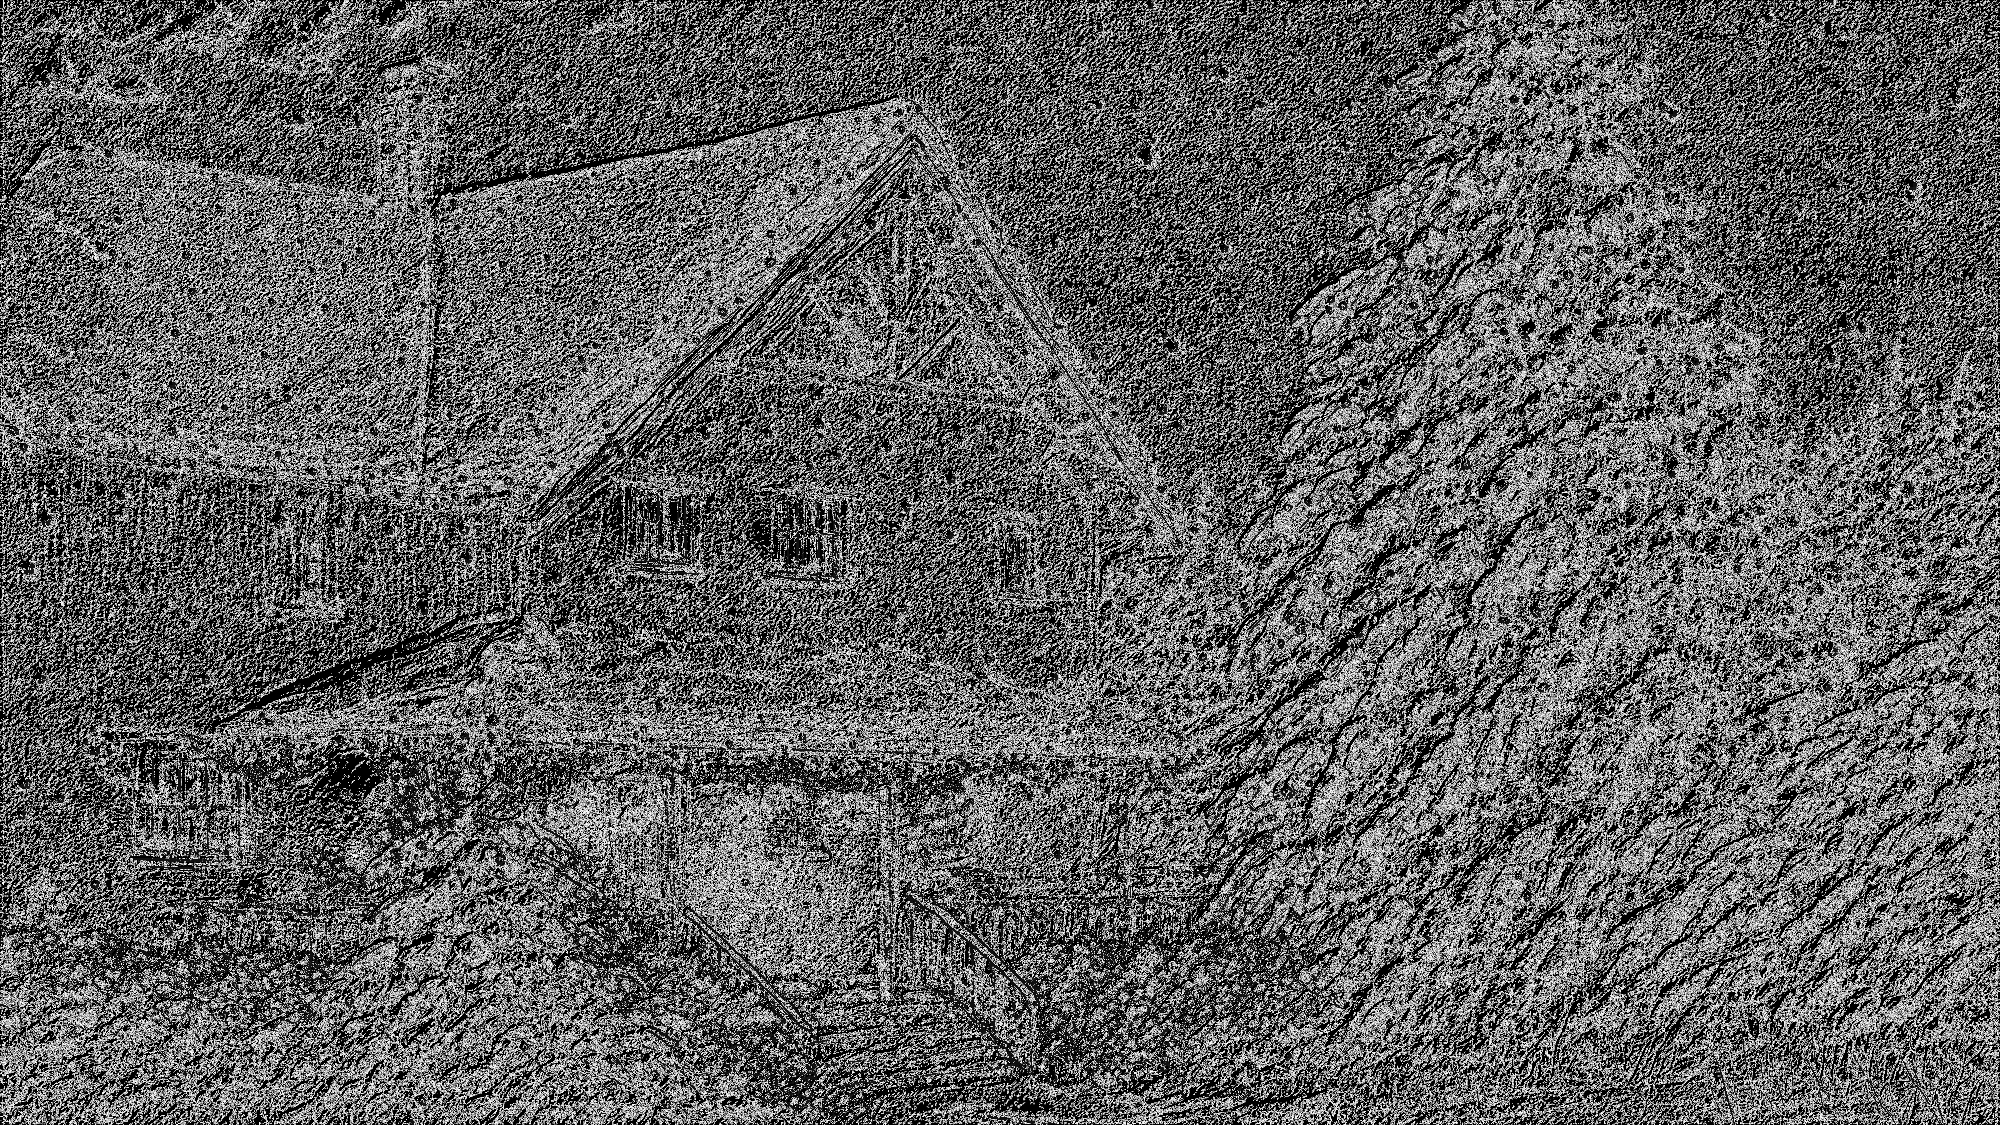
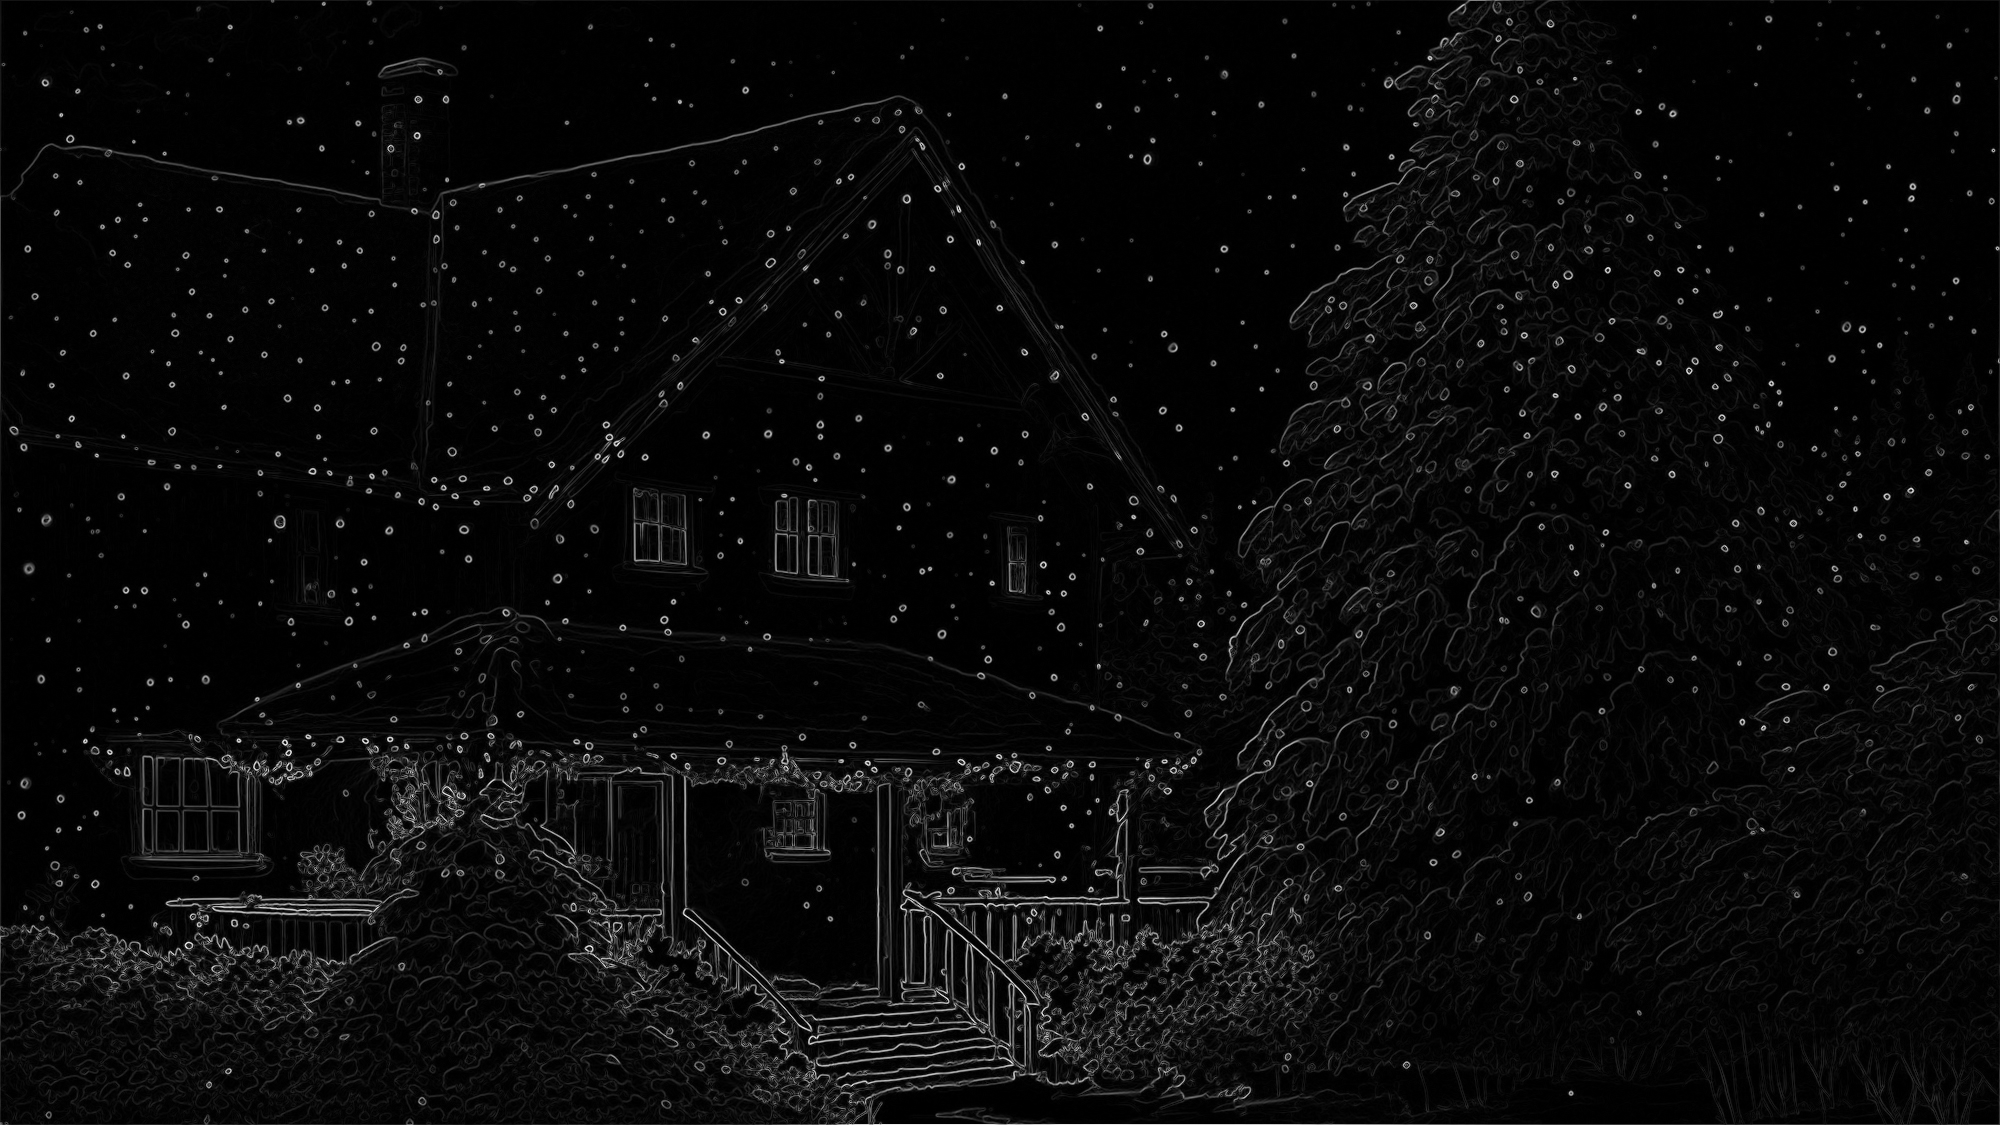
lab4

diff --git a/lab4/main.py b/lab4/main.py
@@ -1,8 +1,69 @@
-import cv2
-import numpy as np
-import os
-from matplotlib import pyplot as plt
+# import cv2
+# import numpy as np
+# import os
+# from matplotlib import pyplot as plt
+#
+# G_x = np.array([[3, 10, 3],
+#                 [0, 0, 0],
+#                 [-3, -10, -3]], dtype=np.float32)
+#
+# G_y = np.array([[3, 0, -3],
+#                 [10, 0, -10],
+#                 [3, 0, -3]], dtype=np.float32)
+#
+# input_folder = 'pictures_src'
+# output_folder = 'pictures_results'
+#
+# if not os.path.exists(output_folder):
+#     os.makedirs(output_folder)
+#
+# image_files = [f for f in os.listdir(input_folder) if f.endswith('.png')]
+#
+# for image_file in image_files:
+#     image_path = os.path.join(input_folder, image_file)
+#
+#     image = cv2.imread(image_path)
+#
+#     if image is None:
+#         print(f"Ошибка: Не удалось загрузить изображение {image_file}. Пропускаем.")
+#         continue
+#
+#     gray_image = cv2.cvtColor(image, cv2.COLOR_BGR2GRAY)
+#
+#     # Применение оператора Шарра
+#     gradient_x = cv2.filter2D(gray_image, -1, G_x)
+#     gradient_y = cv2.filter2D(gray_image, -1, G_y)
+#
+#     gradient = np.sqrt(gradient_x ** 2 + gradient_y ** 2)
+#
+#     if np.isnan(gradient).any() or np.isinf(gradient).any():
+#         gradient = np.nan_to_num(gradient, nan=0.0, posinf=0.0, neginf=0.0)
+#
+#     gradient = gradient.astype(np.float32)
+#
+#     # Нормализация градиента к диапазону 0-255
+#     gradient_normalized = cv2.normalize(gradient, None, 0, 255, cv2.NORM_MINMAX, dtype=cv2.CV_8U)
+#
+#     # Бинаризация градиента
+#     _, binary_gradient = cv2.threshold(gradient_normalized, 50, 255, cv2.THRESH_BINARY)
+#
+#     base_name = os.path.splitext(image_file)[0]
+#     cv2.imwrite(os.path.join(output_folder, f'{base_name}_gray.png'), gray_image)
+#     cv2.imwrite(os.path.join(output_folder, f'{base_name}_gradient_x.png'), gradient_x)
+#     cv2.imwrite(os.path.join(output_folder, f'{base_name}_gradient_y.png'), gradient_y)
+#     cv2.imwrite(os.path.join(output_folder, f'{base_name}_gradient_normalized.png'), gradient_normalized)
+#     cv2.imwrite(os.path.join(output_folder, f'{base_name}_binary_gradient.png'), binary_gradient)
+#
+#     print(f"Обработано изображение: {image_file}")
+#
+# print("Обработка всех изображений завершена.")
 
+import numpy as np
+from PIL import Image
+import os
+import math
+
+# Операторы Шарра
 G_x = np.array([[3, 10, 3],
                 [0, 0, 0],
                 [-3, -10, -3]], dtype=np.float32)
@@ -11,6 +72,38 @@ G_y = np.array([[3, 0, -3],
                 [10, 0, -10],
                 [3, 0, -3]], dtype=np.float32)
 
+# Функция для преобразования цветного изображения в полутоновое
+def rgb_to_grayscale(image):
+    return np.dot(image[..., :3], [0.2989, 0.5870, 0.1140])
+
+# Функция для применения свертки (реализация вручную)
+def apply_convolution(image, kernel):
+    kernel_height, kernel_width = kernel.shape
+    pad_height = kernel_height // 2
+    pad_width = kernel_width // 2
+
+    # Добавляем padding к изображению
+    padded_image = np.pad(image, ((pad_height, pad_height), (pad_width, pad_width)), mode='constant')
+
+    # Создаем пустое изображение для результата
+    output = np.zeros_like(image)
+
+    # Применяем свертку
+    for i in range(image.shape[0]):
+        for j in range(image.shape[1]):
+            output[i, j] = np.sum(padded_image[i:i + kernel_height, j:j + kernel_width] * kernel)
+
+    return output
+
+# Функция для нормализации изображения к диапазону 0–255
+def normalize_image(image):
+    return (image - np.min(image)) / (np.max(image) - np.min(image)) * 255
+
+# Функция для бинаризации изображения
+def binarize_image(image, threshold):
+    return (image > threshold) * 255
+
+# Папки для входных и выходных данных
 input_folder = 'pictures_src'
 output_folder = 'pictures_results'
 
@@ -19,40 +112,36 @@ if not os.path.exists(output_folder):
 
 image_files = [f for f in os.listdir(input_folder) if f.endswith('.png')]
 
+# Обработка каждого изображения
 for image_file in image_files:
     image_path = os.path.join(input_folder, image_file)
 
-    image = cv2.imread(image_path)
+    # Загрузка изображения с помощью PIL
+    image = np.array(Image.open(image_path))
 
-    if image is None:
-        print(f"Ошибка: Не удалось загрузить изображение {image_file}. Пропускаем.")
-        continue
+    # Преобразование в полутоновое
+    gray_image = rgb_to_grayscale(image)
 
-    gray_image = cv2.cvtColor(image, cv2.COLOR_BGR2GRAY)
+    # Применение операторов Шарра
+    gradient_x = apply_convolution(gray_image, G_x)
+    gradient_y = apply_convolution(gray_image, G_y)
 
-    # Применение оператора Шарра
-    gradient_x = cv2.filter2D(gray_image, -1, G_x)
-    gradient_y = cv2.filter2D(gray_image, -1, G_y)
-
+    # Вычисление градиента
     gradient = np.sqrt(gradient_x ** 2 + gradient_y ** 2)
 
-    if np.isnan(gradient).any() or np.isinf(gradient).any():
-        gradient = np.nan_to_num(gradient, nan=0.0, posinf=0.0, neginf=0.0)
-
-    gradient = gradient.astype(np.float32)
-
-    # Нормализация градиента к диапазону 0-255
-    gradient_normalized = cv2.normalize(gradient, None, 0, 255, cv2.NORM_MINMAX, dtype=cv2.CV_8U)
+    # Нормализация градиента
+    gradient_normalized = normalize_image(gradient).astype(np.uint8)
 
     # Бинаризация градиента
-    _, binary_gradient = cv2.threshold(gradient_normalized, 50, 255, cv2.THRESH_BINARY)
+    binary_gradient = binarize_image(gradient_normalized, threshold=50)
 
+    # Сохранение результатов
     base_name = os.path.splitext(image_file)[0]
-    cv2.imwrite(os.path.join(output_folder, f'{base_name}_gray.png'), gray_image)
-    cv2.imwrite(os.path.join(output_folder, f'{base_name}_gradient_x.png'), gradient_x)
-    cv2.imwrite(os.path.join(output_folder, f'{base_name}_gradient_y.png'), gradient_y)
-    cv2.imwrite(os.path.join(output_folder, f'{base_name}_gradient_normalized.png'), gradient_normalized)
-    cv2.imwrite(os.path.join(output_folder, f'{base_name}_binary_gradient.png'), binary_gradient)
+    Image.fromarray(gray_image.astype(np.uint8)).save(os.path.join(output_folder, f'{base_name}_gray.png'))
+    Image.fromarray(gradient_x.astype(np.uint8)).save(os.path.join(output_folder, f'{base_name}_gradient_x.png'))
+    Image.fromarray(gradient_y.astype(np.uint8)).save(os.path.join(output_folder, f'{base_name}_gradient_y.png'))
+    Image.fromarray(gradient_normalized).save(os.path.join(output_folder, f'{base_name}_gradient_normalized.png'))
+    Image.fromarray(binary_gradient.astype(np.uint8)).save(os.path.join(output_folder, f'{base_name}_binary_gradient.png'))
 
     print(f"Обработано изображение: {image_file}")
 
